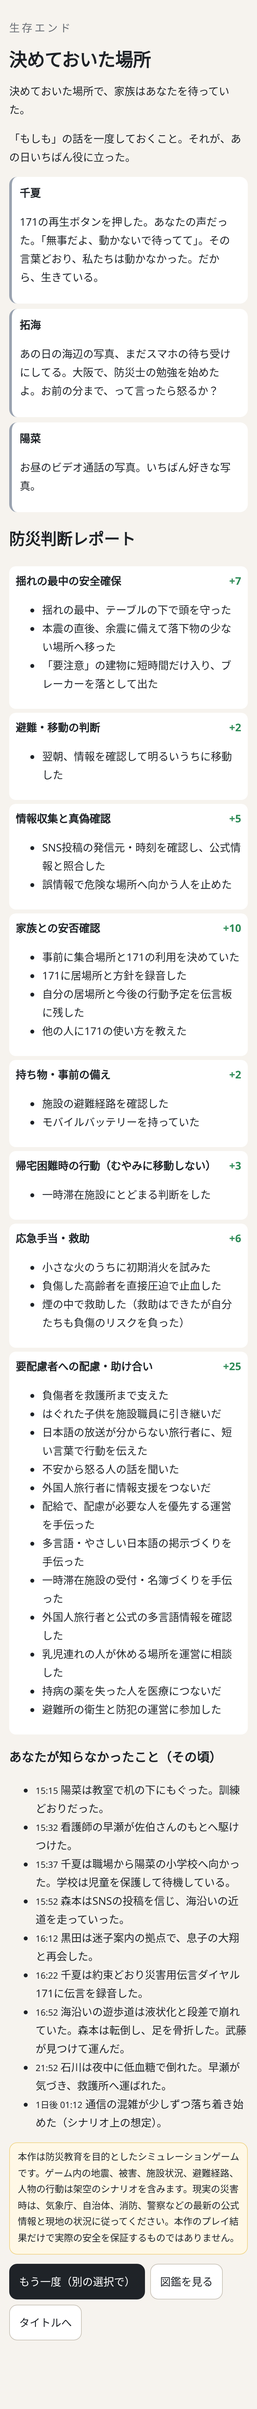
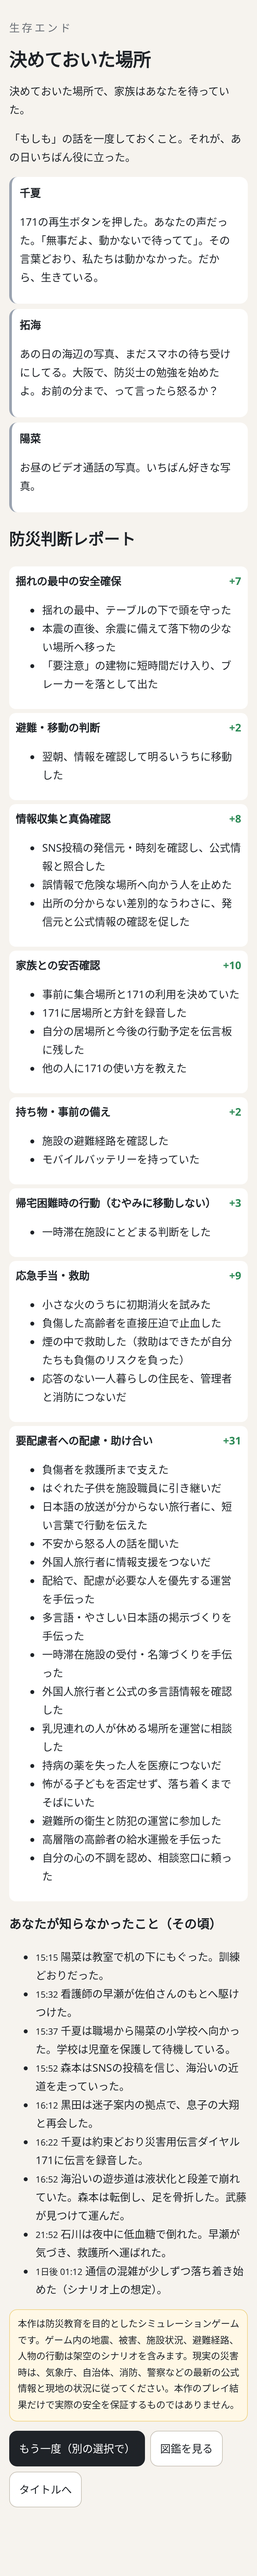
Stage 3b: chapter 4 shelter arcs (Rajan, kids, aftershock, toilet duty, elder meds, message board), per-route finales

diff --git a/src/data/scenes4z.ts b/src/data/scenes4z.ts
@@ -2,6 +2,7 @@ import type { Scene, Choice } from '../engine/types';
 type L = Array<[string, string]>;
 const S = (id: string, chapter: number, bg: string, lines: L, o: Partial<Scene> = {}): Scene => ({ id, chapter, bg, lines, ...o });
 const C = (id: string, label: string, next: string, o: Partial<Choice> = {}): Choice => ({ id, label, next, ...o });
+const R = (id: string, chapter: number, alt: Scene['alt']): Scene => ({ id, chapter, bg: 'crowd', lines: [['', '…']], alt });
 
 // ============================================================
 // 第4章 段階拡張（第3段）
@@ -233,7 +234,7 @@ export const ch4z: Scene[] = [
     ['', '誰かが、小さくラジオをつけた。交通の情報。給水の情報。それから、どこかの小学校で、子どもたちが校庭に「ありがとう」と白線で書いた、という話（ゲーム内の架空の放送）。'],
     ['', '体育館のあちこちで、人が起き上がり始める。毛布をたたむ音。誰かが誰かに「おはよう」と言う声。'],
     ['', '日常は、まだ戻らない。でも、「おはよう」は、もう戻ってきていた。'],
-  ], { next: 'c4_shelter2' }),
+  ], { next: 'c4_d_rajan' }),
 
   // ---- 避難所の数日間（共通・追加）：一時帰宅と写真（c4_d_water2 → c4_d_home → c4_d_night）----
   S('c4_d_home', 4, 'rebuild', [
@@ -250,7 +251,7 @@ export const ch4z: Scene[] = [
     ['', '帰り際、玄関で振り返った。'],
     ['', '靴箱の上に、家族で撮った写真が、倒れずに立っていた。ガラスにひびが一本だけ入って、写真の中の家族の顔を、斜めに横切っている。'],
     ['', '写真立てを、鞄に入れた。ひびごと、持って帰ることにした。'],
-  ], { next: 'c4_d_night' }),
+  ], { next: 'c4_d_toilet' }),
 
   // ---- 会社員：会社からの電話（c4_shelter の前に一度だけ）----
   S('c4w_office', 4, 'shelter_life', [
@@ -287,4 +288,245 @@ export const ch4z: Scene[] = [
     ['', '蓮は脚立の上で、ドライバーを持ったまま、固まった。葵も、固まった。祖母だけが、何事もなかったように、お茶を淹れていた。'],
     ['', '金具を締める音が、台所に響いた。きゅっ、きゅっ、と。倒れないように。もう二度と、誰の上にも倒れないように。'],
   ], { onEnter: { flag: 's_after_done', know: 'k_furniture', mental: 10 }, next: 'c4_shelter' }),
+
+  // ===== 段階3b：避難所の数日（共通・続き）=====
+  R('c4_d_rajan', 4, [
+    { if: { flag: 'stopped_rumor' }, goto: 'c4_d_rajan_yes' },
+    { if: {}, goto: 'c4_d_rajan_no' },
+  ]),
+  S('c4_d_rajan_yes', 4, 'shelter_life', [
+    ['', '五日目。ラジャンが、炊き出しのテントの裏で、大鍋をかき回していた。'],
+    ['ラジャン', 'ダル、です。豆のスープ。ぼくの店、まだ開けられない。でも、豆は、たくさんある。冷蔵庫いらない。'],
+    ['', '湯気の向こうで、田辺が紙コップを並べている。昨日、掲示板の前で黙っていた男性が、少し離れたところで、腕を組んで立っていた。'],
+    ['', '列ができた。最初は、遠巻きだった。それから、子どもが一人、母親の手を引いて並んだ。それから、もう一人。'],
+    ['ラジャン', '辛くない、です。子ども用。……ぼくのお母さん、ネパールで、地震のとき、こうやって作った。二〇一五年。ぼく、まだ子ども。'],
+    ['', 'ラジャンは、それ以上は話さなかった。ただ、お玉を握る手が、一度だけ止まった。'],
+    ['', '列の最後に、腕を組んでいた男性が並んだ。紙コップを受け取るとき、男性は、ラジャンの顔を見ずに、小さく言った。'],
+    ['男性', '……悪かったな。'],
+    ['ラジャン', '（少し考えてから）おかわり、あります。'],
+  ], { onEnter: { time: 60, water: 10, know: ['k_vulnerable', 'k_foreign'] }, choices: [
+      C('help', 'お玉をもう一本借りて、配るのを手伝う', 'c4_d_school', { icon: '🥣', effects: { stamina: -5, mental: 8, flag: 'rajan_friend', report: { cat: 'care', score: 2, note: '外国人住民の炊き出しを手伝い、避難所の分断をやわらげた' } }, result: '豆のスープは、思ったより、ずっと優しい味がした。ラジャンは、配り終えたあとで「ともだちの、味」と言って笑った。それがネパールの言い回しなのか、彼が今つくった言葉なのかは、聞かなかった。' }),
+      C('eat', '一杯もらって、黙って隣で飲む', 'c4_d_school', { icon: '🍲', effects: { mental: 5 }, result: '言葉はなかった。湯気だけが、二人の間を行ったり来たりした。' }),
+    ] }),
+  S('c4_d_school', 4, 'shelter_life', [
+    ['', '六日目。体育館の隅に、段ボールで囲った「こどもスペース」ができた（ゲーム内の設定）。'],
+    ['', 'ボランティアの大学生が、絵本を読んでいる。でも、子どもたちの何人かは、絵本ではなく、積み木で遊んでいた。高く積んで、それから、机をどんどんと叩いて、崩す。'],
+    ['子ども', 'じしんだー！　ぜんぶ、こわれたー！'],
+    ['', '近くにいた母親が、顔をこわばらせて立ち上がりかけた。「やめなさい、そんな遊び」。'],
+    ['田辺', '（小声で）あれね、止めなくていいんだって。保健師さんが言ってた。怖かったことを、遊びの中で、もう一回やってみてるんだって。……大人が、そばで見てればいいって。（要監修）'],
+    ['', '母親は、座り直した。でも、膝の上で握った手は、ほどけなかった。'],
+    ['', '積み木は、また積み上げられていく。崩されるために。それでも、子どもたちは、何度でも、積んだ。'],
+  ], { onEnter: { time: 60, know: 'k_mental' }, choices: [
+      C('sit', '母親の隣に座って、一緒に子どもたちを見守る', 'c4_d_call', { icon: '👀', effects: { mental: 6, report: { cat: 'care', score: 1, note: '子どもの地震ごっこを止めずに、そばで見守った' } }, result: '「うちの子、夜、まだ、トイレに一人で行けなくて」と、母親がぽつりと言った。あなたは「うちも」とだけ答えた。それで、十分だった。' }),
+      C('build', '子どもたちに混じって、いちばん頑丈な積み木の家を一緒に建てる', 'c4_d_call', { icon: '🧱', effects: { stamina: -3, mental: 8 }, result: '「ここ、はしら、もっといる」と男の子が言った。「たおれないように」。あなたは、柱を二本、足した。地震ごっこの地震は、その家を、とうとう崩せなかった。男の子は、少し不満そうで、それから、とても得意そうだった。' }),
+    ] }),
+  R('c4_d_call', 4, [
+    { if: { npcAlive: 'friend' }, goto: 'c4_d_call_takumi' },
+    { if: {}, goto: 'c4_d_call_lost' },
+  ]),
+  S('c4_d_call_takumi', 4, 'night_shelter', [
+    ['', '夜。スマホの電波が、ようやく安定した。拓海から、着信。'],
+    ['拓海', 'おう。生きてるか。……俺は生きてる。腕は、まだ吊ってるけど。'],
+    ['拓海', 'あのさ。病院の廊下で、ずっと考えてた。あの日、お前と撮った写真。あれ、ほんの何時間か前なんだよな。海が、普通に海でさ。'],
+    ['', '電話の向こうで、拓海が笑ったのか、息を吐いたのか、分からない音がした。'],
+    ['拓海', '大阪の話、どうしようかと思ってる。こんなときに東京離れるのって、逃げるみたいでさ。'],
+  ], { onEnter: { time: 30, battery: -2 }, choices: [
+      C('go', '「行けよ。逃げるのと、生きるのは、違う」', 'c4_d_board', { icon: '🚄', effects: { npc: { id: 'friend', trust: 10 }, flag: 'takumi_pushed' }, result: '長い沈黙のあと、拓海は「……お前、たまにかっこいいこと言うよな」と言った。「たまに、な」と返した。二人とも、少しだけ笑った。' }),
+      C('stay', '「決めなくていい。今は、腕を治すことだけ考えろ」', 'c4_d_board', { icon: '🩹', effects: { npc: { id: 'friend', trust: 8 }, mental: 3 }, result: '「そうだな」と拓海は言った。「お前も、ちゃんと寝ろよ」。寝られない夜が続いていることを、拓海は知っているみたいだった。' }),
+    ] }),
+  S('c4_d_call_lost', 4, 'memorial', [
+    ['', '夜。スマホの電波が、ようやく安定した。'],
+    ['', 'トーク画面のいちばん上に、まだ拓海の名前がある。最後のメッセージは、あの日の昼。「次、どこ行く？」。'],
+    ['', '既読は、もうつかない。それでも、指が、文字を打っていた。'],
+    ['', '「ごめん」と打って、消した。「ありがとう」と打って、消した。'],
+    ['', '最後に、海辺の写真を一枚、送った。送信済みの小さな文字が、画面の隅に灯った。'],
+    ['', '体育館の誰かが、寝返りを打った。その音が、なぜか、ありがたかった。'],
+  ], { onEnter: { time: 30, battery: -1, mental: -4, know: 'k_mental' }, next: 'c4_d_board' }),
+  R('c4_d_last', 4, [
+    { if: { preset: 'worker' }, goto: 'c4w_last' },
+    { if: { preset: 'student' }, goto: 'c4s_last' },
+    { if: {}, goto: 'c4p_last' },
+  ]),
+
+  // ---- 会社員：千夏の仕事 ----
+  S('c4w_last', 4, 'night_shelter', [
+    ['', '七日目の夜。陽菜が眠ったあと、千夏が、配給の紙パックの牛乳を二つ持ってきた。'],
+    ['{fam1}', '……ねえ。あの朝、私が何見てたか、気づいてたでしょ。'],
+    ['', '求人サイトの画面。あの朝、トーストの横で、一瞬だけ見えた画面。'],
+    ['{fam1}', '保育士に戻ろうかと思ってたの。陽菜が小学校に上がったら。……でも、あの日、保育園の先生たちが、子ども二十人連れて、高台の公園まで歩いたって聞いて。泣いてる子をおんぶして、二人ずつ手をつないで、一人も離さずに。'],
+    ['{fam1}', '私、それ聞いて、怖くなったの。私にできるかなって。それと同じくらい——やりたいって、思った。'],
+    ['', '千夏は、牛乳のストローを、噛んでいた。昔からの癖だ。言いにくいことを言うときの。'],
+  ], { onEnter: { time: 30 }, choices: [
+      C('support', '「できるよ。陽菜を、一晩、一人で守ったんだから」', 'c4w_last2', { icon: '🤝', effects: { npc: { id: 'fam1', trust: 15 }, flag: 'chinatsu_work', mental: 6 }, result: '千夏は、ストローを噛むのをやめた。「……守ったのは、私じゃなくて、近所のおばあちゃんと、懐中電灯」。それでも、その声は、少しだけ、明るかった。' }),
+      C('worry', '「今はまだ、陽菜のそばにいてやってほしい」と正直に言う', 'c4w_last2', { icon: '💭', effects: { npc: { id: 'fam1', trust: -3 }, flag: 'chinatsu_wait' }, result: '千夏は、うなずいた。うなずいたけれど、ストローは、また噛まれていた。あなたは、自分の言葉が正しかったのかどうか、分からなかった。' }),
+    ] }),
+  S('c4w_last2', 4, 'night_shelter', [
+    ['', '体育館の灯りが落ちる。千夏の寝息が、陽菜の寝息に重なっていく。'],
+    ['', 'あなたは、ポケットの中の誕生日カードに触れた。開けるのは、家に帰ってから。三人で、ちゃんとテーブルについてから。'],
+    ['', '天井の非常灯が、一つだけ、緑色に光っている。あの夜、帰り道で何度も見上げた信号の消えた交差点を、思い出した。'],
+    ['', '帰ってきた。まだ家には帰れていないけれど、ちゃんと、帰ってきた。'],
+  ], { next: 'c4w_hina_rabbit' }),
+
+  // ---- 大学生：蓮と、ふみさんの話 ----
+  S('c4s_last', 4, 'night_shelter', [
+    ['', '七日目の夜。避難所の外の階段に、蓮と並んで座った。空気が冷たい。星が、異様なほどよく見える。街の明かりが、まだ半分しか戻っていないからだ。'],
+    ['{fam1}', '葵のおばあちゃん、さ。最初に会ったとき、俺に何て言ったか覚えてる？'],
+    ['', '覚えている。去年の正月。玄関先で、祖母は蓮を頭のてっぺんから爪先まで眺めて、「あら、背が高いのね。じゃあ、あの上の棚、届くわね」と言ったのだ。'],
+    ['{fam1}', '俺、あれ、すげえ嬉しかったんだよ。「よろしく」でも「はじめまして」でもなくて、いきなり、役に立てって。……家族っぽいなって。'],
+    ['', '蓮は、ポケットに手を入れた。鍵の、小さな金属音がした。'],
+  ], { onEnter: { time: 30, know: 'k_mental' }, alt: [{ if: { npcDead: 'fam2' }, goto: 'c4s_last_loss' }], choices: [
+      C('plan', '「今度は、上の棚にあるものを、全部下ろしに行こう。三人で」', 'c4s_last2', { icon: '📦', effects: { npc: { id: 'fam1', trust: 10 }, flag: 'st_shelf_plan', know: 'k_furniture' }, result: '蓮は「ばあちゃん、絶対文句言うぞ」と笑った。「重いものは下、軽いものは上。それだけで違うんだよ、って俺が説明する」。それは、あの日、二人で調べたことだった。' }),
+      C('quiet', '黙って、蓮の肩に頭を預ける', 'c4s_last2', { icon: '🌌', effects: { mental: 6 } }),
+    ] }),
+  S('c4s_last_loss', 4, 'memorial', [
+    ['', '七日目の夜。避難所の外の階段に、蓮と並んで座った。星が、異様なほどよく見える。'],
+    ['{fam1}', '葵のおばあちゃん、最初に会ったとき、俺に「あの上の棚、届くわね」って言ったんだよ。'],
+    ['', '知っている。その棚に、羊羹があった。'],
+    ['', '笑おうとして、声が出なかった。代わりに、変な音が喉から出た。泣き声だと気づくまで、少しかかった。'],
+    ['{fam1}', '……いいよ。泣けよ。俺、ここにいるから。どこにも行かないから。'],
+    ['', '蓮は、何度も同じことを言った。どこにも行かない。どこにも行かない。それは、祖母が最後に言えなかった言葉の、代わりのようだった。'],
+  ], { onEnter: { mental: 6 }, next: 'c4s_last2' }),
+  S('c4s_last2', 4, 'night_shelter', [
+    ['', '階段の下を、給水車がゆっくり通り過ぎていった。運転席の自衛隊員が、こちらに軽く手を上げた（ゲーム内の描写）。'],
+    ['', '二人で、手を振り返した。誰に振っているのか、よく分からないまま。たぶん、あの日から今日までの、全部の人に。'],
+    ['', '蓮の手の中で、鍵が、また小さく鳴った。'],
+  ], { next: 'c4s_ren_mom' }),
+
+  // ---- 父親：美咲の勤務 ----
+  S('c4p_last', 4, 'night_shelter', [
+    ['', '七日目。美咲から、病院の休憩室で撮ったという短い動画が届いた。'],
+    ['', '白い壁。疲れた顔。マスクの跡が、頬に赤く残っている。'],
+    ['{fam1}', '（動画）律、見てる？　ママね、まだおうちに帰れないの。病院に、けがをした人がたくさん来てて。……でも、ちゃんとご飯食べてるよ。看護師さんたちと、交代で寝てるよ。'],
+    ['{fam1}', '（動画）律は、パパの言うこと聞いてね。パパは……パパは、ちゃんと寝てね。律が寝てるあいだ、ずっと起きてるでしょ。知ってるんだから。'],
+    ['', '動画は、そこで終わっていた。最後の一秒、美咲は、画面の外の誰かに呼ばれて振り向いていた。'],
+    ['律', 'ママ、なんで、かえってこないの。ほかのひとの、ママなの？'],
+  ], { onEnter: { time: 30, battery: -2, know: 'k_mental' }, choices: [
+      C('explain', '「ママは、ほかの人のママを、助けてるんだよ。だから、ほかの人のママも、おうちに帰れる」', 'c4p_last2', { icon: '🏥', effects: { npc: { id: 'fam2', trust: 10 }, flag: 'pa_explained_misaki' }, result: '律は、長いこと考えていた。それから「じゃあ、りつも、たすける」と言って、隣の段ボールの赤ちゃんに、自分の貝がらを一つ、そっと置いた。' }),
+      C('video', '律と一緒に、ママへの返事の動画を撮る', 'c4p_last2', { icon: '🎥', effects: { battery: -3, npc: { id: 'fam1', trust: 12 }, mental: 5 }, result: '律は、カメラに向かって、いちばん大きい貝がらを見せた。「これ、ママの。とっといてあげる」。撮り終わってから、あなたは自分が一度も画面に映っていないことに気づいた。撮り直そうとは、思わなかった。' }),
+    ] }),
+  S('c4p_last2', 4, 'night_shelter', [
+    ['', '夜中。既読がつき、返信が来た。一行だけ。'],
+    ['{fam1}', '（メッセージ）休憩室で、三回見た。ありがと。あと二日で帰る。'],
+    ['', 'あなたは、スマホを伏せて、律の髪に鼻をうずめた。潮の匂いは、もうしなかった。避難所の石けんの匂いがした。'],
+    ['', 'あと二日。二日なら、待てる。あの夜を越えたのだから。'],
+  ], { next: 'c4p_misaki_back' }),
+
+  // ===== 段階3b：トイレ当番と、薬の名前（共通）=====
+  S('c4_d_toilet', 4, 'shelter_life', [
+    ['', '避難所に戻ると、校舎のトイレの前に、張り紙が増えていた。「断水中。使用後はバケツの水で流してください」「手をふく紙は、ここに捨てないで」。'],
+    ['', '張り紙の字は、日ごとに大きくなっている。最初は丁寧な楷書だった。今は、太いマジックの、殴り書きだ。'],
+    ['田辺', '……ごめんね、汚いとこ見せて。当番、今日も二人来なかったのよ。みんな疲れてるの、分かってるんだけど。'],
+    ['', '田辺のゴム手袋の指先が、一本、破れていた。その下の指が、赤く荒れている。'],
+    ['', 'トイレが汚れると、人は水を飲まなくなる。水を飲まないと、体が壊れる。——あの日の夜、救護所で聞いた話が、頭の中で繋がった。'],
+  ], { onEnter: { time: 60, know: 'k_infection' }, choices: [
+      C('duty', '今夜の当番を代わる。新しい手袋も、配給所でもらってくる', 'c4_d_elder', { icon: '🧤', effects: { stamina: -8, mental: 4, flag: 'toilet_duty', report: { cat: 'care', score: 2, note: '避難所のトイレ当番を引き受け、衛生の維持に協力した' } }, result: 'バケツの水は、思ったより重かった。三往復目で、知らない高校生が無言でもう一つのバケツを持ってきた。四往復目には、三人になっていた。終わったあと、田辺が新しい張り紙を書いた。「いつも、ありがとう」。それは、楷書だった。' }),
+      C('rule', '当番表を作り直し、一人の負担が偏らないよう、運営に提案する', 'c4_d_elder', { icon: '📋', effects: { mental: 2, flag: 'toilet_rule', report: { cat: 'care', score: 1, note: '避難所の当番を分担する仕組みを提案した' } }, result: '田辺は、当番表を見て「これ、もっと早く誰かが言ってくれたらねえ」と苦笑した。その「誰か」に、自分がなれたのかどうかは、分からない。翌朝、表の空欄は半分に減っていた。' }),
+      C('pass', '疲れている。見なかったことにして、寝床に戻る', 'c4_d_elder', { icon: '😞', effects: { mental: -4 }, result: '寝床に戻っても、田辺の破れた手袋が、まぶたの裏から消えなかった。' }),
+    ] }),
+  S('c4_d_elder', 4, 'night_shelter', [
+    ['', 'その夜。隣の区画の高齢の女性が、ビニール袋をがさがさと探していた。'],
+    ['女性', 'ないのよ、お薬手帳。血圧のと、心臓のと、もう一つ……あれ、何だったかしら。白くて、小さい、朝の。'],
+    ['', '袋の中から出てくるのは、老眼鏡と、輪ゴムでまとめた写真と、ほどけかけた毛糸の帽子だけだった。'],
+    ['女性', '家に、全部置いてきちゃったの。持って出たのは、主人の写真だけ。……ばかよねえ。主人はもう、十年前に死んでるのに。'],
+    ['', '女性は笑った。笑ったけれど、写真を袋に戻す手が、とても慎重だった。'],
+  ], { onEnter: { time: 30, know: ['k_vulnerable', 'k_meds'] }, choices: [
+      C('nurse', '救護スペースの看護師さんに伝え、一緒に話を聞いてもらう', 'c4_d_yoshin', { icon: '🩺', effects: { mental: 5, flag: 'helped_elder', report: { cat: 'care', score: 2, note: '薬をなくした高齢者を医療者につないだ' } }, result: '看護師は、膝をついて、女性と目の高さを合わせた。「かかりつけの病院、覚えてます？　薬局は？」。一つずつ。病院の名前が出たとき、女性の顔がふっと明るくなった。「そう、そこ。いつも、あそこの先生」。——薬の名前を思い出せなくても、たどれる道はある。（手続きの詳細は要監修）' }),
+      C('photo', 'スマホに入っている自分の家族の薬の写真を思い出し、「薬は写真に撮っておくといい」と話す', 'c4_d_yoshin', { icon: '📱', if: { minBattery: 1 }, effects: { mental: 2 }, result: '女性は「スマホねえ」と困った顔をした。あなたは、言ってから気づいた。ここにいる全員が、スマホを持っているわけではない。翌朝、あなたは看護師に彼女のことを伝えた。遅れて、でも、ちゃんと。' }),
+    ] }),
+
+  // ===== 段階3b：余震の夜（共通）=====
+  S('c4_d_yoshin', 4, 'night_shelter', [
+    ['', '午前二時。床が、下から突き上げられた。'],
+    ['', '体育館の天井の照明が、鎖ごと揺れる。ばらばらと、どこかで何かが落ちる音。誰かの悲鳴。それから、一斉に、何百人ぶんの体が起き上がる気配。'],
+    ['', 'あの日と同じだ、と体が言う。心臓が、喉までせり上がってくる。'],
+    ['', '出口のほうへ、何人かが走り出した。暗い。足元には、毛布と、段ボールと、眠っていた子どもたち。'],
+  ], { onEnter: { know: 'k_aftershock' }, choices: [
+      C('drop', 'その場で低くなり、頭を守る。「走らないで！　しゃがんで！」と声を出す', 'c4_d_yoshin2', { icon: '🙇', effects: { mental: 4, report: { cat: 'safety', score: 2, note: '余震の際、走らず頭を守るよう周囲に呼びかけた' } }, result: '自分の声が、思ったより大きく響いた。近くの何人かが、はっとしたようにしゃがみ込む。揺れは、十秒ほどで収まった。走り出した人の一人が、段ボールにつまずいて転んでいた。' }),
+      C('run', '出口へ走る', 'c4_d_yoshin2', { icon: '🏃', effects: { risk: { kind: 'crowd', level: 4, label: '暗がりで段ボールにつまずき、膝を打った' }, mental: -4 }, result: '出口の手前で、揺れは止んだ。振り返ると、さっきまで寝ていた場所の上で、照明はまだ、ゆっくりと揺れていた。落ちては、いなかった。' }),
+    ] }),
+  S('c4_d_yoshin2', 4, 'night_shelter', [
+    ['', '揺れが収まると、体育館は、しん、とした。'],
+    ['', 'どこかで、子どもが泣き出した。それにつられて、別の子どもも。大人たちは、誰も「大丈夫」と言わなかった。言えなかった。大丈夫かどうか、誰にも分からなかったから。'],
+    ['', 'やがて、運営の誰かが懐中電灯を持って、ゆっくりと館内を歩き始めた。「けがをした人、いませんか」。その声が、遠ざかっては、また近づいてくる。'],
+    ['', '朝まで、眠れなかった。たぶん、ここにいる全員が。'],
+  ], { onEnter: { time: 60, stamina: -3 }, next: 'c4_d_night' }),
+
+  // ---- 会社員：陽菜のうさぎ ----
+  S('c4w_hina_rabbit', 4, 'rebuild', [
+    ['', '八日目。二度目の一時帰宅に、陽菜がついてきた。どうしても、と言って聞かなかった。'],
+    ['{fam2}', 'うさちゃん、まってるから。ひとりで、こわいから。'],
+    ['', '子ども部屋の床は、絵本と積み木で埋まっていた。陽菜は靴を脱ぐなり、その中に手を突っ込んで、掘り始めた。'],
+    ['', 'あなたは、本棚の下に、白い耳が一本はみ出しているのを見つけた。'],
+  ], { onEnter: { time: 90 }, choices: [
+      C('let', '自分では取らず、陽菜が見つけるまで待つ', 'c4w_hina_rabbit2', { icon: '⏳', effects: { npc: { id: 'fam2', trust: 12 }, mental: 4 }, result: '十分かかった。陽菜は、本棚の下から耳を引っ張り出すと、うさぎの顔についた埃を、自分の袖で何度も拭いた。「みつけた。ひなが、みつけた」。それは、あの夜から初めて、陽菜が自分の力で何かを取り戻した瞬間だった。' }),
+      C('take', 'すぐに取り出して、陽菜に渡す', 'c4w_hina_rabbit2', { icon: '🐰', effects: { npc: { id: 'fam2', trust: 6 } }, result: '陽菜はうさぎを抱きしめて、それから、少しだけ不満そうな顔をした。「ひなが、みつけたかったのに」。あなたは謝った。陽菜は、許してくれた。' }),
+    ] }),
+  S('c4w_hina_rabbit2', 4, 'rebuild', [
+    ['', '帰り道、陽菜はうさぎに、ずっと話しかけていた。'],
+    ['{fam2}', 'あのね、じしんがきたらね、つくえのしたにはいるの。あたまをまもるの。うさちゃんは、あたまがおおきいから、ひなが、まもってあげる。'],
+    ['', '避難所で、誰かに教わったのだろう。その誰かに、あなたは、心の中で頭を下げた。'],
+  ], { onEnter: { know: 'k_drop' }, next: 'c4_shelter2' }),
+
+  // ---- 大学生：蓮の母からの電話 ----
+  S('c4s_ren_mom', 4, 'night_shelter', [
+    ['', '八日目の夜。蓮のスマホが鳴った。画面には「母さん」。'],
+    ['', '蓮は、少し離れた廊下で話していた。それでも、声は聞こえてきた。'],
+    ['{fam1}', '……だから、大丈夫だって。……うん。……いや、帰らない。……なんでって、葵がいるから。……違うよ、そういうんじゃなくて。……いや、そういうのだけど。'],
+    ['', '戻ってきた蓮は、耳まで赤かった。'],
+    ['{fam1}', '母さんが、新潟に帰ってこいって。大学も休みになるし、余震も続くし、って。……葵も一緒に来いって、言ってた。'],
+  ], { onEnter: { time: 30 }, choices: [
+      C('stay', '「行かない。ここで、片付けを最後までやりたい」', 'c4s_ren_mom2', { icon: '🏠', effects: { npc: { id: 'fam1', trust: 8 }, flag: 'st_stay_tokyo' }, result: '蓮は、うなずいた。「だよな。俺も」。それから、少し笑って言った。「母さんに、葵がそう言ったって伝える。たぶん、もっと気に入られる」' }),
+      C('thank', '「お母さんに、ありがとうって伝えて。いつか、ちゃんと会いに行く」', 'c4s_ren_mom2', { icon: '🙏', effects: { npc: { id: 'fam1', trust: 12 }, mental: 5, flag: 'st_ren_mom' }, result: '蓮は、すぐに電話をかけ直した。「葵が、ありがとうって。いつか、会いに行くって」。電話の向こうで、知らない女の人が、泣き笑いのような声を上げた。' }),
+    ] }),
+  S('c4s_ren_mom2', 4, 'night_shelter', [
+    ['', '消灯後。蓮が小声で言った。'],
+    ['{fam1}', '俺、あの日、葵の家族のこと、何も知らなかったなって思った。おばあちゃんの家の場所も、電話番号も。……今度、全部教えて。俺のも、全部教えるから。'],
+    ['', '二人で、暗い中、スマホのメモに、互いの家族の名前と住所と電話番号を打ち込んだ。それは、どんな言葉より、約束らしかった。'],
+  ], { onEnter: { know: 'k_meetpoint' }, next: 'c4_shelter2' }),
+
+  // ---- 父親：美咲が帰る ----
+  S('c4p_misaki_back', 4, 'reunion', [
+    ['', '九日目の夕方。体育館の入口に、美咲が立っていた。'],
+    ['', '病院のIDカードを首から下げたまま。九日前の朝、玄関で靴を履いていたときと、同じ姿で。ただ、ひどく痩せていた。'],
+    ['律', 'ママ！'],
+    ['', '律は走った。段ボールの迷路を、一度もつまずかずに。美咲は膝をついて、両腕を広げた。'],
+    ['', 'あなたは、走らなかった。走れなかった。足が、急に、九日ぶんの重さを思い出したみたいだった。'],
+  ], { onEnter: { time: 60, mental: 10 }, choices: [
+      C('walk', 'ゆっくり歩いていき、二人ごと抱きしめる', 'c4p_misaki_back2', { icon: '🫂', effects: { npc: { id: 'fam1', trust: 12 } }, result: '美咲の髪から、消毒液の匂いがした。「ただいま」と美咲が言い、「おかえり」とあなたが言った。順番が逆みたいだ、と二人とも思って、二人とも、言わなかった。' }),
+      C('wait', 'その場で待ち、律が「いちばん大きい貝がら」を渡すのを見届ける', 'c4p_misaki_back2', { icon: '🐚', effects: { npc: { id: 'fam2', trust: 10 }, mental: 4 }, result: '律はポケットから貝がらを出して、美咲の手のひらに置いた。「とっといた」。美咲は、それを握りしめて、しばらく顔を上げなかった。' }),
+    ] }),
+  S('c4p_misaki_back2', 4, 'reunion', [
+    ['', 'その夜、三人で、一枚の毛布にくるまった。'],
+    ['{fam1}', '……病院でね、律くらいの子が運ばれてきたの。お父さんが、ずっと手を握ってた。私、その手を見ながら、あなたのこと考えてた。'],
+    ['{fam1}', 'ありがとう。律を守ってくれて。……あと、ちゃんと寝てなかったでしょ。顔見れば分かる。'],
+    ['', '律はもう、二人の間で眠っていた。片手に、美咲の指を一本、握ったまま。'],
+  ], { next: 'c4_shelter2' }),
+
+  // ===== 段階3b：伝言板（共通）=====
+  S('c4_d_board', 4, 'shelter_life', [
+    ['', '体育館の入口の壁は、いつのまにか、紙で埋め尽くされていた。'],
+    ['', '模造紙に、マジックで。ノートの切れ端に、ボールペンで。段ボールの切れ端に、口紅で書かれたものまであった。'],
+    ['', '「〇〇町の佐藤です。全員無事。××小にいます」「ママへ　さきに　おばあちゃんちにいく　ゆうと」「三丁目の黒い猫を探しています。首輪は赤」「△△さん、もしこれを見たら、携帯に。番号は変わっていません」'],
+    ['', 'いちばん下の隅に、ほかより古びた一枚があった。日付は、地震の当日。「ひろし　どこにいる　はは」。その下に、別の筆跡で、二日後の日付と一行。「ここにいた。会えた。ありがとう」。'],
+    ['', '誰が、誰に「ありがとう」と書いたのかは、分からない。母が息子に。息子が母に。あるいは、この壁に。'],
+    ['', '紙と紙の隙間から、元の壁の色が、ほんの少しだけ見えている。体育館の壁は、こんなに白かっただろうか。'],
+  ], { onEnter: { time: 30, know: 'k_comm' }, choices: [
+      C('write', '自分も一枚書いて貼る。「この避難所で、助けてくれた人たちへ」', 'c4_d_board2', { icon: '✍', effects: { mental: 6, flag: 'board_wrote' }, result: '何を書くか、長いこと迷った。結局、書いたのは三行だけだった。「ここで、水を分けてくれた人。夜、声をかけてくれた人。名前を知らないあなたたちへ。ありがとう。」貼る場所は、もうほとんど残っていなかった。「ここにいた。会えた。」の紙の、すぐ隣に貼った。' }),
+      C('read', '書かずに、一枚ずつ、全部読む', 'c4_d_board2', { icon: '👁', effects: { mental: 3, time: 30 }, result: '全部読むのに、三十分かかった。読み終えたとき、この壁の前を通った何百人の、あの日からの時間が、自分の中に少しずつ沈んでいた。重かった。でも、捨てたいとは思わなかった。' }),
+    ] }),
+  S('c4_d_board2', 4, 'shelter_life', [
+    ['', '夕方、田辺が、伝言板の前で立ち止まっていた。'],
+    ['田辺', 'これね、いつか剥がす日が来るのよ。避難所が閉まる日。……私、前の地震のときも、剥がす係だったの。'],
+    ['田辺', '剥がすとき、一枚ずつ、読んじゃうのよね。それで、毎回、泣くの。会えた人のでも、会えなかった人のでも。'],
+    ['', '田辺は、そう言って笑い、それから、壁の一番上の一枚を、指でそっと押さえ直した。剥がれかけていたのだ。'],
+    ['田辺', 'まだね。まだ、剥がさない。'],
+  ], { next: 'c4_d_last' }),
+
+  S('c4_d_rajan_no', 4, 'shelter_life', [
+    ['', '五日目。炊き出しのテントの裏で、浅黒い肌の青年が、大鍋をかき回していた。豆のスープの匂いがした。'],
+    ['', '列は、なかなかできなかった。人々は、遠巻きに鍋を見ていた。あの掲示板の前の噂を、誰もが覚えていた。噂が嘘だったと区の発表があったことも、たぶん、誰もが知っていた。それでも、足は、鍋のほうへ向かなかった。'],
+    ['', '青年は、鍋の火を弱めて、ただ、待っていた。'],
+    ['', 'しばらくして、小さな女の子が一人、母親の手を振りほどいて、鍋の前に立った。「それ、なに？」。青年は、しゃがんで、紙コップを差し出した。「豆、です。からくない」。'],
+    ['', 'あなたは、その光景を、少し離れた場所から見ていた。足は、動かなかった。動かさなかったのか、動かなかったのか、自分でも分からなかった。'],
+  ], { onEnter: { time: 30, mental: -3, know: 'k_foreign' }, next: 'c4_d_school' }),
 ];

diff --git a/scripts/playtime.ts b/scripts/playtime.ts
@@ -8,9 +8,9 @@ const CPM = 450, CHOICE_SEC = 10, ADV_SEC = 1.5, N = Number(process.env.N || 150
 const vars = (p: string, t: string) => t.replace(/\{(\w+)\}/g, (_, k) => (DB.presets as any)[p].vars[k] ?? k);
 const out: Record<string, any> = {};
 for (const p of ['worker', 'student', 'parent'] as const) {
-  let all = 0, surv = 0, nsurv = 0, maxM = 0; const perCh: Record<number, number> = {};
+  let all = 0, surv = 0, nsurv = 0, maxM = 0; const perCh: Record<number, number> = {}; const reach: Record<number, number> = {};
   for (let i = 1; i <= N; i++) {
-    const s = newGame(p, {}, i * 104729); start(s); let r = i * 104729; let chars = 0, sec = 0; let guard = 0;
+    const s = newGame(p, {}, i * 104729); start(s); let r = i * 104729; let chars = 0, sec = 0; let guard = 0; const seen = new Set<number>();
     while (s.scene !== 'END') {
       if (++guard > 500) break;
       const sc = scene(s); let c = 0;
@@ -24,11 +24,13 @@ for (const p of ['worker', 'student', 'parent'] as const) {
         if (ch.result) c += vars(p, ch.result).length;
         sec += CHOICE_SEC; choose(s, ch.id);
       } else { sec += ADV_SEC; proceed(s); }
-      chars += c; perCh[sc.chapter] = (perCh[sc.chapter] || 0) + c;
+      seen.add(sc.chapter); chars += c; perCh[sc.chapter] = (perCh[sc.chapter] || 0) + c;
     }
+    for (const k of seen) reach[k] = (reach[k] || 0) + 1;
     const min = chars / CPM + sec / 60; all += min; if (!(s as any).dead) { surv += min; nsurv++; } maxM = Math.max(maxM, min);
   }
   out[p] = { avgMin: +(all / N).toFixed(1), survivorAvgMin: +(surv / Math.max(1, nsurv)).toFixed(1), maxMin: +maxM.toFixed(1),
-    charsPerChapterAvg: Object.fromEntries(Object.entries(perCh).map(([k, v]) => [k, Math.round(v / N)])) };
+    charsPerChapterAvg: Object.fromEntries(Object.entries(perCh).map(([k, v]) => [k, Math.round(v / N)])),
+    charsPerChapterReached: Object.fromEntries(Object.entries(perCh).map(([k, v]) => [k, Math.round(v / (reach[+k] || 1))])) };
 }
 console.log(JSON.stringify(out, null, 1));

diff --git a/src/data/scenes2.ts b/src/data/scenes2.ts
@@ -189,6 +189,11 @@ export const ch4: Scene[] = [
   S('c4_shelter2', 4, 'shelter_life', [
     ['', '夜。体育館の天井を見上げる。'],
     ['', 'あの日、助けた人、助けられなかった人の顔が浮かぶ。'],
+    ['', '海辺の手すり。煙の向こうの手。暗い歩道で、黙って隣を歩いてくれた誰か。名前を知っている顔も、知らない顔も、同じ明るさで浮かんでは、消える。'],
+    ['', '助けられた顔だけを思い出すことは、できなかった。助けられなかった顔だけを思い出すことも、できなかった。二つは、同じ一日の、同じ海の上に、並んで浮かんでいた。'],
+    ['', '体育館のどこかで、誰かが寝言を言った。誰かの名前のようだった。'],
+    ['', '明日も、ここで目を覚ます。水を運び、トイレを掃除し、伝言板の前を通り、誰かに「おはよう」と言う。'],
+    ['', 'それが、今のあなたにできる、いちばん確かなことだった。'],
   ], { chapterEnd: true, lesson: ['k_stay', 'k_temp_facility', 'k_walk_home', 'k_shelter_vs_place', 'k_dvt', 'k_infection', 'k_vulnerable'], next: 'c5_weeks' }),
 ];
 

diff --git a/KNOWN_ISSUES.md b/KNOWN_ISSUES.md
@@ -4,3 +4,7 @@
 - c5_weeks の写真選択肢は、c4_d_home で写真を撮ったか（damage_photo フラグ）で分岐するようにした。以前は電池残量で判定していた。
 - 死亡率の調整：c2_shore 28→22、c3_rescue 18→14、c3_walk2の強行 14→10、c3_walk3で待つ時間 360→240分、子連れの強行と c4w_house の長居 16→12、c4w_neighbor の強行 14→8。c4_shelter で手当て +15HP（医療チームの巡回）。
 - 第4章は1ルートあたり約4千字（全プレイ平均）で、目標の1万字には未達。
+
+## 段階3bメモ
+- c4_d_school の「地震ごっこは止めなくてよい」は保健師の台詞であり「要監修」。c4_d_elder の薬の手続きも「要監修」。こどもスペースはゲーム内の設定、給水車の描写はゲーム内の描写。
+- 第4章の文字数はランダム経路の平均で約9.2〜9.7千字。目標の1万字にわずかに届いていない。

diff --git a/COUNTS.md b/COUNTS.md
@@ -8,3 +8,11 @@
 
 シーン 198→231 / 選択肢 223→254 / 台詞行 546→691。ランダムプレイ死亡率 32.3%→25.2%（2,000局×3プリセット）。
 注：第4章の目標（1ルート1万字以上）には未達。死亡したプレイの0字も平均に含む。
+
+## 段階3b（第4章の不足分）計測（N=800）
+| ルート | 平均(分) | 生存者平均(分) | 第4章文字数（第4章に到達したプレイの平均） |
+|---|---|---|---|
+| 会社員 | 37.3→44.4 | 56.4 | 7,960(3b前)→9,722 |
+| 大学生 | 37.3→45.9 | 52.1 | 7,311→9,348 |
+| 親 | 37.2→45.7 | 53.4 | 7,229→9,228 |
+死亡率 25.5%。playtime.ts に到達プレイ基準の charsPerChapterReached を追加した。
